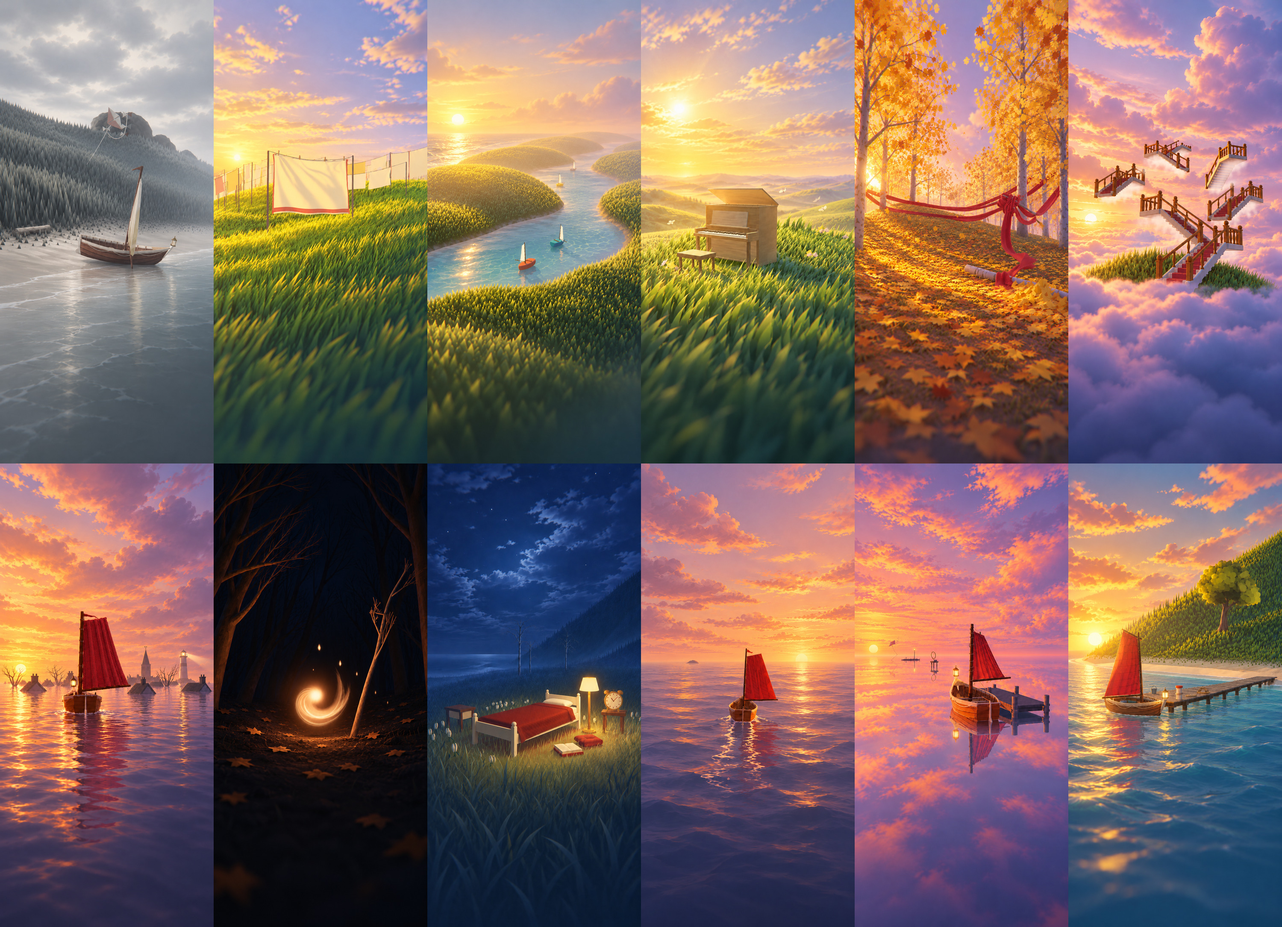
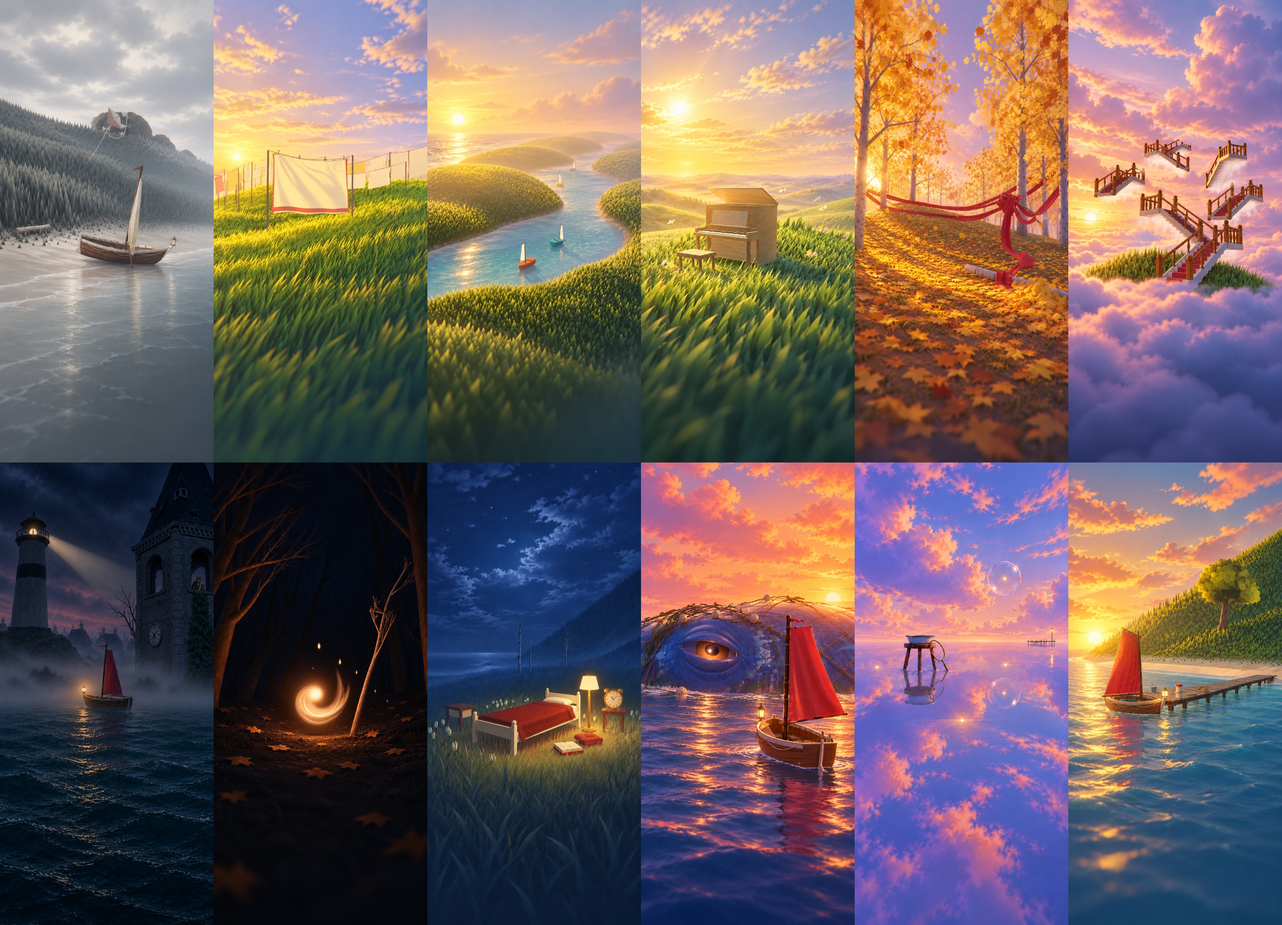
README: chapter collage rebuilt from the current paintings (stormy drowned village, whale at sea); autumn shore; mention chapter select after finishing

diff --git a/README.md b/README.md
@@ -13,7 +13,7 @@ A wordless journey home, played with nothing but the movement of your hand.
 
 Play it in your browser at [updraft.jeremyvun.com](https://updraft.jeremyvun.com).
 
-![Twelve painted rooms from the journey, from a grey winter shore to a jetty at home.](docs/images/updraft-chapters.jpg)
+![Twelve painted rooms from the journey, from a grey autumn shore through a storm-lit drowned village and a whale caught in a net to a jetty at home.](docs/images/updraft-chapters.jpg)
 
 ![Eight scenes from the game: the child walking towards sheets on a washing line, toy sailboats on a stream, a piano spreading colour across a grey island, a golden birch wood, staircases floating in a lilac sky, a red-sailed boat passing a drowned village, a fireplace glowing in a field at night, and still water mirroring sunset clouds.](docs/images/updraft-screenshots.jpg)
 
@@ -23,7 +23,8 @@ Play it in your browser at [updraft.jeremyvun.com](https://updraft.jeremyvun.com
 - Trace circles to raise an updraft.
 
 Play with sound on: the music responds to the wind. Progress saves at checkpoints in your browser, so choose
-**Continue** when you come back.
+**Continue** when you come back. Once you have finished the journey, **chapters** on the title screen takes you back
+to any room.
 
 ## License
 

diff --git a/assets/art-direction/continue/README.md b/assets/art-direction/continue/README.md
@@ -12,6 +12,7 @@ Keep only the latest selected painting in each orientation, except an explicitly
 - `src/paintings/`: native-size WebP derivatives, quality 94 with `-m 6 -sharp_yuv`.
 - `src/chapter-select/stills/`: matching 400x250 landscape tiles, quality 90.
 - `assets/promo/updraft-chapter-collage-share.jpg`: the twelve current portraits in story order, without UI; rebuild with `node tools/chapter-collage.mjs`.
+- `docs/images/updraft-chapters.jpg`: the same collage 3000 wide for the repository README; rebuild with `node tools/chapter-collage.mjs docs/images/updraft-chapters.jpg 3000` whenever a painting changes.
 
 Landscape masters are 1672x941; portraits vary slightly around 852x1846. These are native generator outputs.
 Jeremy handles any later upscale; preserve these original PNGs. The manifest's `file` and `prompt` paths are
